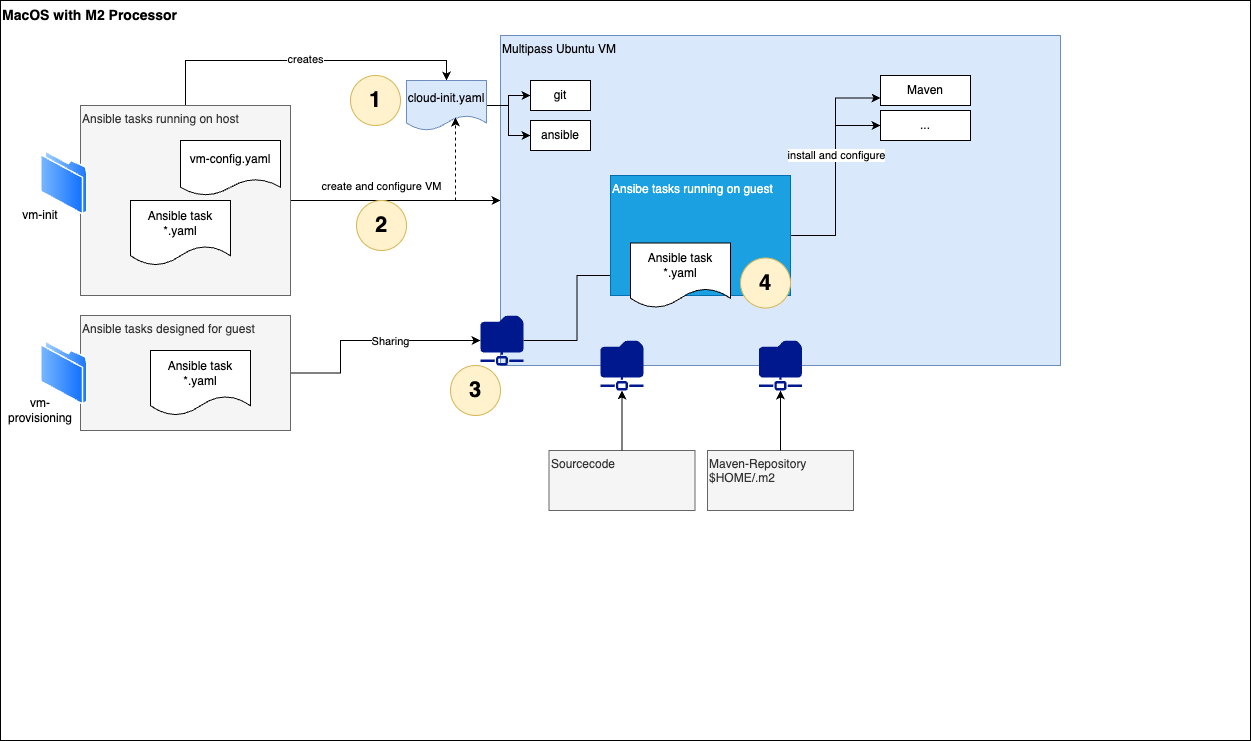
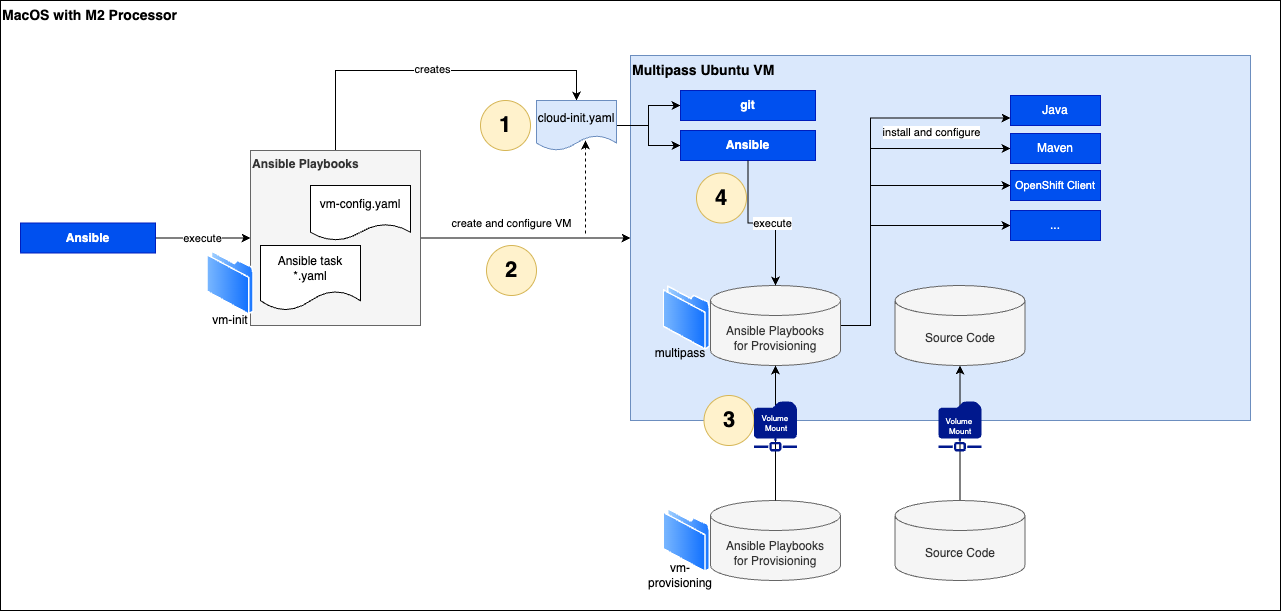
feat: Completely changed how provisioning works. Improved some things when creating and updating the VM.

diff --git a/README.md b/README.md
@@ -1,5 +1,5 @@
 # multipass-java-integration-dev
-A java based development environment using multipass.io running on a MacOS M2 system.
+A java based development environment using multipass.io running on a MacOS M2 system. The way of operation is based on the approach of Vagrant+VirtualBox.
 
 ![](./assets/multipass-macos-setup.png)
 
@@ -8,6 +8,7 @@ It contains the following tools
 - Java 17 
 - Maven
 - OpenShift Client
+- NodeJS and npm
 
 ## Setup
 
@@ -20,43 +21,31 @@ In order to install and use the development environment, the following requireme
 - Install and configure [Ansible](https://www.ansible.com/)
 
 
-### Create VM
+### Create or update VM
 
 1. Prepare VM configuration
 
-The configuration settings are made in the file ```<project-root>/vm-init/vm-config.yaml```. All settings are explained in this file.
+The configuration settings are made in the file ```<project-root>/vm-config.yaml```. All settings are explained in this file.
 
 
-2. In order to setup a new multipass VM navigate to ```<project-root>/vm-init``` folder and run the following command:
-
-```bash
-ansible-playbook create-vm-playbook.xml
-```
-
-3. Exceute Ansible script for provisioning inside VM. See below for further details.
-
-
-### Update VM
-
-If an adjustment of the VM configuration is required, then the following steps must be performed.
-
-1. Prepare VM configuration
-
-Change the settings in the file ```<project-root>/vm-init/vm-config.yaml```. All settings are explained in this file.
-
-
-2. Navigate to ```<project-root>/vm-init``` folder and run the following command:
+2. In order to setup a new multipass VM navigate to ```<project-root>``` folder and run the following command:
 
 ```bash
-ansible-playbook update-vm-playbook.xml
+ansible-playbook init.yaml
 ```
-
-**Note:** The VM will be automatically stopped and started again, when running this command!
 
 
 ### Provisioning
 
-Provisioning of tools for development is also controlled via Ansible. The Ansible roles to be executed can be changed under afterwards. The following steps are required to execute the provisioning:
+Provisioning can be performed both by the host and directly within the VM. Provisioning is also performed via Ansible.
+
+1. In order to provision a multipass VM navigate to ```<project-root>``` folder and run the following command:
+
+```bash
+ansible-playbook provision.yaml
+```
+
+Alternatively, provisioning can also be performed within the VM using Ansible. The following steps are required for this:
 
 1. Modify Ansible roles in folder ```<project-root>/vm-provisioning```
 
@@ -67,20 +56,20 @@ ssh <vmuser>@IP-Address
 ``` 
 
 **Notes:**  
-- vmuser is configured in ```<project-root>/vm-init/vm-config.yaml```.
+- vmuser is configured in ```<project-root>/vm-config.yaml```.
 - IP-Address can be obtain using ```multipass info <vmname>``` or ```multipass list```.
 
-3. Navigate to ```/provisioning/vm-provisioning```
+3. Navigate to ```/multipass/vm-provisioning```
 
 4. Exceute the following command:
 
 ```bash
-ansible-playbook provision-playbook.xml
+ansible-playbook playbook.yaml
 ```
 
 ## Insights
 
-The creation of a VM is done in 4 steps. Basically the steps can be influenced by configuration settings in the file ```<project-root>/vm-init/vm-config.yaml```. The creation is controlled by Ansible.
+The creation of a VM is done in 4 steps. Basically the steps can be influenced by configuration settings in the file ```<project-root>/vm-config.yaml```. The creation is controlled by Ansible.
 
 In step 1 a cloud-init.yaml is created. The file contains the user and public keys and defines basic software that should be installed automatically when the VM is created.
 
@@ -90,6 +79,18 @@ In step 3, different mounts are defined in Multipass.io to exchange data between
 
 As the 4th and last step, an Ansible script can be executed within the VM to install further tools and to adapt the VM to one's own needs. The "Provisioning" script can be executed again at any time. Steps 1 - 3 are actually only for creating the VM.
 
+
+## Issues
+
+### Maven repository can't be shared via a mount
+
+When integrating Maven repository via a mount into the VM, no build is running correctly. The following error is shown:
+
+```
+[ERROR] Failed to execute goal io.quarkus.platform:quarkus-maven-plugin:2.16.7.Final:generate-code (default) on project messwerte-from-tredis-to-sap: Quarkus code generation phase has failed: java.io.IOException: Failed to create a new filesystem for /home/ubuntu/.m2/repository/io/quarkus/quarkus-apache-httpclient/2.16.7.Final/quarkus-apache-httpclient-2.16.7.Final.jar: /home/ubuntu/.m2/repository/io/quarkus/quarkus-apache-httpclient/2.16.7.Final/quarkus-apache-httpclient-2.16.7.Final.jar: Operation not permitted -> [Help 1]
+```
+
+I played with security options in the multipass mount command and also ensured that multipass has full access to my local harddrive. However until now it was not possible to avoid this error when running a Maven build. So I decided to unmount the Maven repository.
 
 
 
